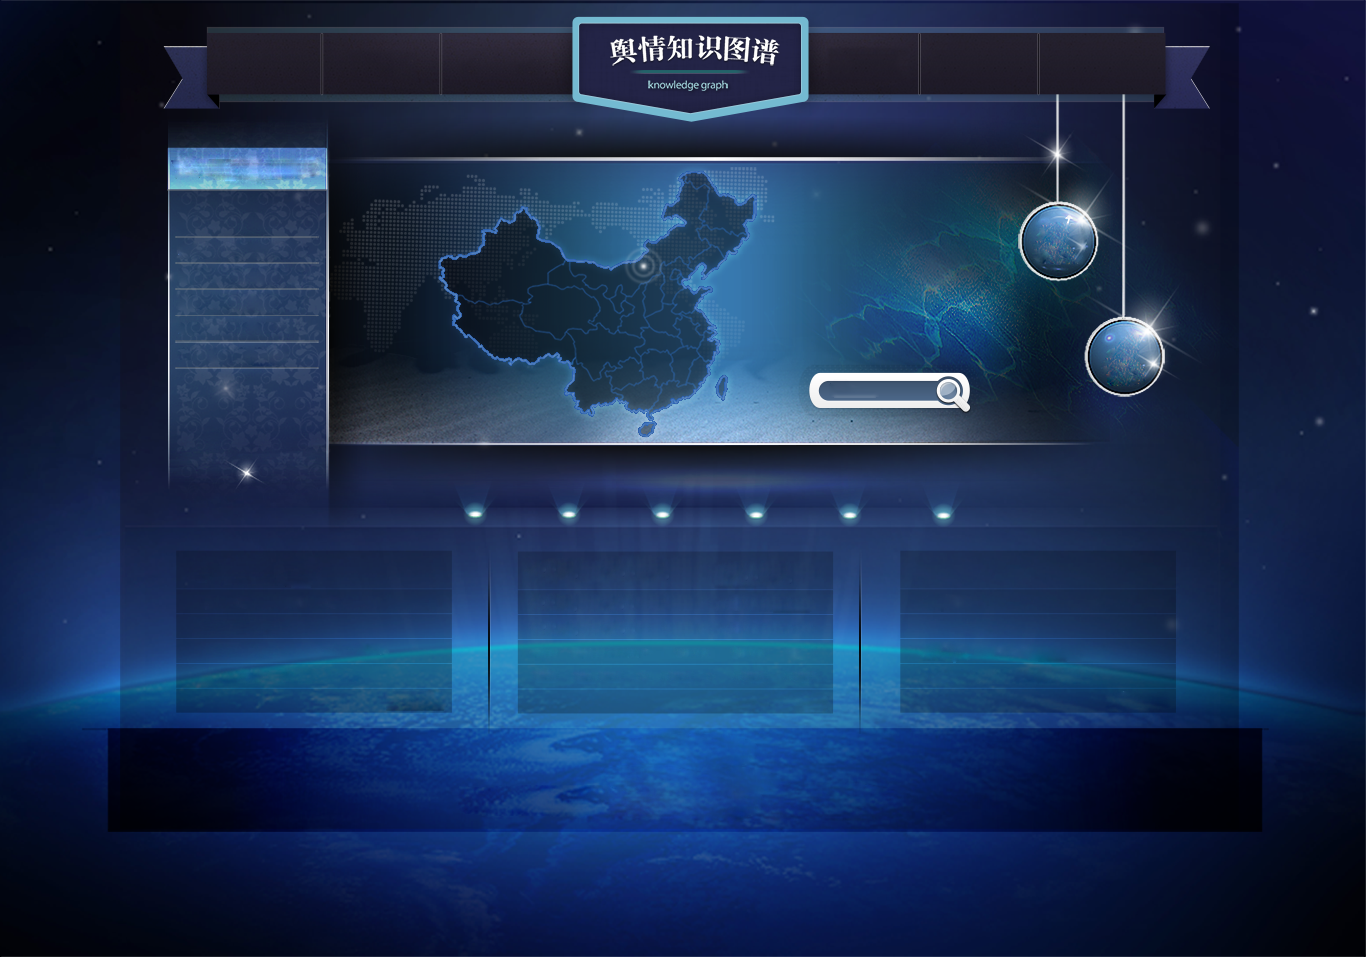
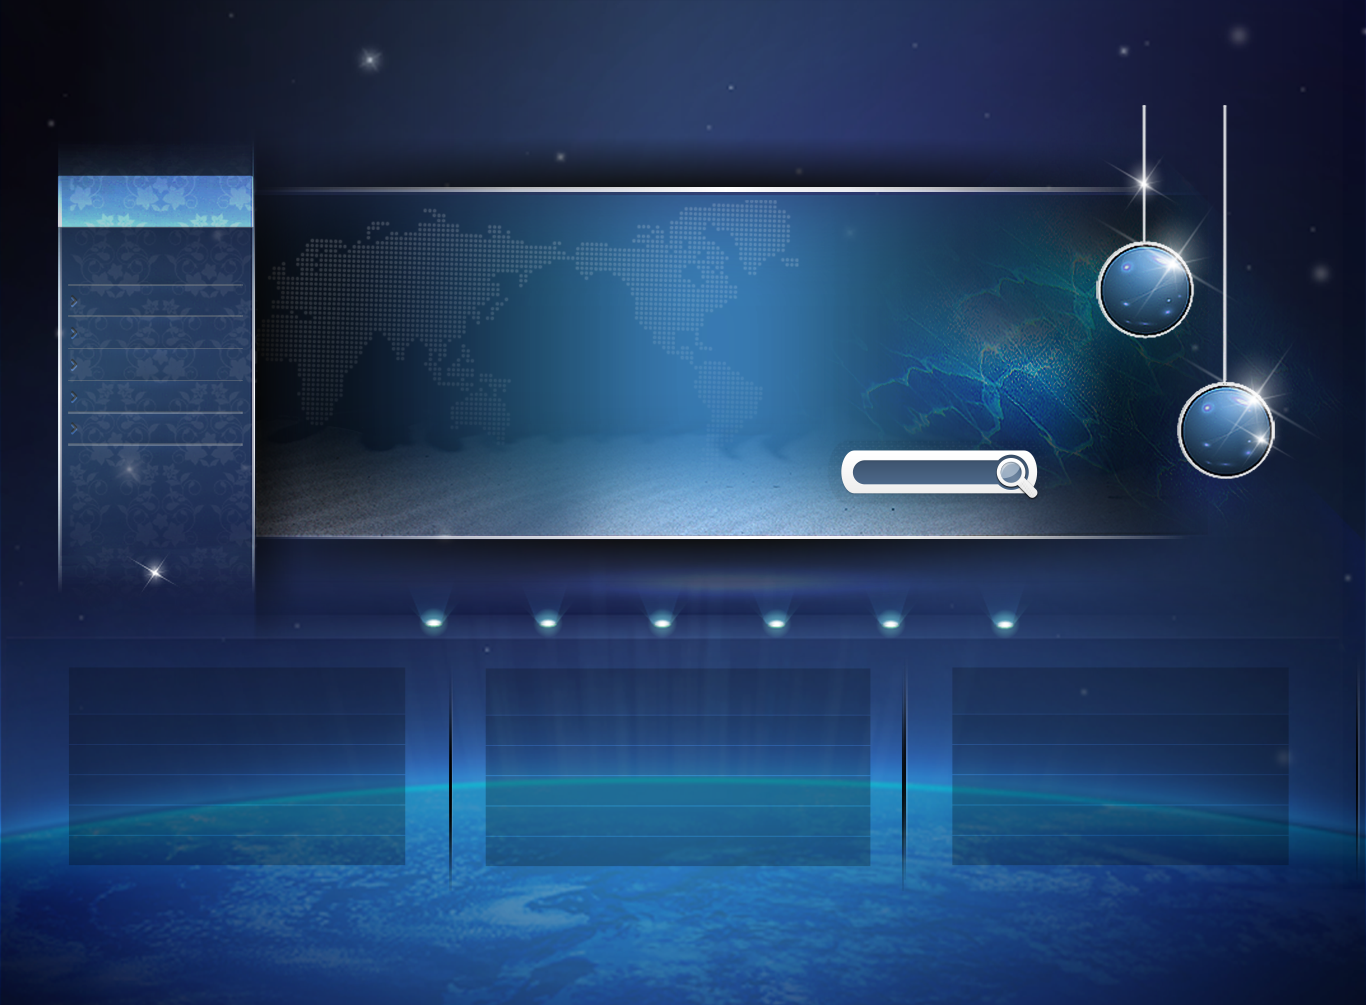
ymm

diff --git a/knowledge/templates/index/card_display.html b/knowledge/templates/index/card_display.html
@@ -1,0 +1,62 @@
+{% extends "public_nav.html" %}
+{% block title %}<title>知识图谱 - 卡片详情页</title>{% endblock %}
+{% block my_css %}
+<link rel="stylesheet" href="/static/css/card_display.css">
+<style>
+    .radio-inline {
+        font-weight: 900;
+    }
+</style>
+{% endblock %}
+
+
+{% block main %}
+<div id="all_cards">
+    <div class="left"> < </div>
+    <div class="cards_content">
+        <div class="choose" style="padding: 5px 0 5px 100px;">
+            <label class="radio-inline">
+                <input type="radio" name="options" id="important" value=""> 重要度
+            </label>
+            <label class="radio-inline">
+                <input type="radio" name="options" id="activity" value=""> 活跃度
+            </label>
+            <label class="radio-inline">
+                <input type="radio" name="options" id="sensitivity" value=""> 敏感度
+            </label>
+        </div>
+        <div id="card_set">
+            <div id="gov_card_details" style="padding:30px 0 0 30px">
+                <div class="details-1">
+                    <div class="details-1-left" style="width:60%;color: white;display: inline-block;text-align: center;">
+                        <h3 title="中华人民共和国" style="width: 110px;margin:0 auto;white-space: nowrap;overflow: hidden;text-overflow:ellipsis;">中华人民共和国</h3>
+                        <p style="margin-top:12px;font-size: 8px">发生时间：<b class="time">2016-9-12</b></p>
+                    </div>
+                    <div class="details-1-right" style="float: right;margin-top: -10px;margin-right: 20px;border: 2px solid #44b3e6">
+                        <img src="/static/images/unknown.png">
+                    </div>
+                    <div class="details-1-bottom" style="text-align: center;color: white;font-size: 8px;margin-top: 10px">
+                        <img src="/static/images/gov_wei.png">&nbsp;<span class="position">山东</span>
+                        <img src="/static/images/gov_people.png">&nbsp;<span class="join">1723923</span>
+                        <img src="/static/images/gov_circle.png" class="heart">
+                    </div>
+                </div>
+                <div class="details-2" style="margin: 31px 0 0 25px">
+                    <span style="font-weight: 800;font-size: 10px">业务标签：</span>
+                    <span class="tag" style="display:inline-block;padding: 2px 5px;background-color:#3a89ad;border-radius: 6px;font-size: 6px;">大学生</span>
+                </div>
+            </div>
+        </div>
+    </div>
+    <div class="right"> > </div>
+</div>
+
+{% endblock %}
+
+{% block my_js %}
+<script src="/static/js/card_display-1.js"></script>
+<script>
+//    $('body').height($(window).height());
+
+</script>
+{% endblock %}

diff --git a/knowledge/templates/index/event.html b/knowledge/templates/index/event.html
@@ -1,0 +1,39 @@
+{% extends "public_nav.html" %}
+{% block title %}<title>知识图谱 - 事件详情页</title>{% endblock %}
+{% block my_css %}
+<link rel="stylesheet" href="/static/css/event.css">
+<style>
+
+</style>
+{% endblock %}
+
+<!-------主要内容------->
+{% block main %}
+<div id="event_content">
+    <div id="content_left">
+        <div class="basic">
+            <h3 class="basic-1" style="width: 140px;height: 280px;line-height: 280px;
+            color: white;font-size: 22px;font-weight: 900;display: inline-block">基本信息</h3>
+            <div class="basic-2">
+                <div class="basic-2-name">
+                    <h3 class="event_name">徐玉玉事件</h3>
+                    <span class="edit" style="display: inline-block">编&nbsp;&nbsp;辑</span>
+                </div>
+
+            </div>
+        </div>
+    </div>
+    <div id="content_right">
+
+    </div>
+</div>
+
+{% endblock %}
+
+{% block my_js %}
+<script src="/static/js/event-1.js"></script>
+<script>
+
+
+</script>
+{% endblock %}

diff --git a/knowledge/static/css/card_display.css b/knowledge/static/css/card_display.css
@@ -1,0 +1,40 @@
+/*内容样式*/
+body {
+    width: 100%;
+    min-width: 1349px;
+    min-height: 1408px;
+    background: url("/static/images/cards.jpg") no-repeat;
+    background-size: 100% 100%;
+}
+#all_cards {
+    width: 100%;
+}
+#all_cards .cards_content {
+    display: inline-block;
+    width: 1174px;
+}
+#all_cards .left,#all_cards .right {
+    width: 80px;
+    height: 80px;
+    line-height: 80px;
+    text-align: center;
+    color: white;
+    font-size: 16px;
+    background: #bcbdbf;
+    cursor: pointer;
+    display: inline-block;
+    margin-top: 0px;
+}
+#all_cards .left:hover,#all_cards .right:hover {
+    background: #1dd2af;
+}
+#all_cards .cards_content #card_set {
+    width: 100%;
+    padding: 30px 100px;
+}
+#all_cards .cards_content #card_set #gov_card_details {
+    width: 300px;
+    height: 172px;
+    background: url("/static/images/government_card.jpg") no-repeat;
+}
+

diff --git a/knowledge/static/css/knowledge_home.css b/knowledge/static/css/knowledge_home.css
@@ -6,37 +6,17 @@ body {
     min-width: 1349px;
     min-height: 1005px;
     /*max-height: 1005px;*/
-    background: url("/static/images/body-1.jpg") no-repeat;
+    background: url("/static/images/body.png") no-repeat;
 }
 #container {
     width: 100%;
     height: 800px;
     padding: 20px 20px 50px 20px;
 }
-#container #nav {
-    width: 90%;
-    height: 80px;
-    padding-left: 20px;
-    margin: 10px auto 0;
-}
-#container #nav .nav_list li {
-    float: left;
-}
-#container #nav .nav_list li a {
-    font-family: '微软雅黑';
-    display: block;
-    width: 140px;
-    height: 80px;
-    line-height: 80px;
-    text-align: center;
-    font-size: 16px;
-    color: white;
-    font-weight: 900;
-}
 #container #statistics {
     width: 90%;
     height: 368px;
-    margin: 75px auto 0;
+    margin: 20px auto 0;
 }
 #container #statistics .statis-1 {
     width: 155px;

diff --git a/knowledge/templates/index/knowledge_home.html b/knowledge/templates/index/knowledge_home.html
@@ -18,16 +18,6 @@
 {% endblock %}
 {% block main %}
 <div id="container">
-    <div id="nav">
-        <ul class="nav_list">
-            <li><a href="###">专题探索</a></li>
-            <li><a href="###">群体探索</a></li>
-            <li><a href="###" style="margin-left: 20px">突发探索</a></li>
-            <li><a href="###" style="margin-left: 290px">图谱探索</a></li>
-            <li><a href="###">图谱管理</a></li>
-            <li><a href="###">我的图谱</a></li>
-        </ul>
-    </div>
     <div id="statistics">
         <div class="statis-1">
             <div class="s1-top"></div>

diff --git a/knowledge/static/css/public_nav.css b/knowledge/static/css/public_nav.css
@@ -20,3 +20,25 @@ a,a:link,a:hover,a:visited,a:active {
     text-decoration: none;
 }
 /*内容样式*/
+#nav {
+    width: 100%;
+    height: 135px;
+    padding:15px 0 0 100px;
+    margin: 10px auto 0;
+    background: url("/static/images/nav.png") no-repeat;
+    background-size: 100% 100%;
+}
+#nav .nav_list li {
+    float: left;
+}
+#nav .nav_list li a {
+    font-family: '微软雅黑';
+    display: block;
+    width: 140px;
+    height: 80px;
+    line-height: 80px;
+    text-align: center;
+    font-size: 16px;
+    color: white;
+    font-weight: 900;
+}

diff --git a/knowledge/static/css/event.css b/knowledge/static/css/event.css
@@ -1,0 +1,27 @@
+/*内容样式*/
+body {
+    width: 100%;
+    min-width: 1349px;
+    min-height: 2470px;
+    background: url("/static/images/event_body.png") no-repeat;
+    background-size: 100% 100%;
+}
+#event_content {
+    width: 100%;
+    padding: 20px 50px;
+}
+#event_content #content_left {
+    width: 72%;
+
+}
+#event_content #content_left .basic {
+    width: 100%;
+    height: 280px;
+    margin-top: 40px;
+    padding-left: 55px;
+}
+#event_content #content_left .basic .basic-2 {
+    float: ;
+    height: 280px;
+    position: relative;
+}

diff --git a/knowledge/templates/public_nav.html b/knowledge/templates/public_nav.html
@@ -29,7 +29,16 @@
 <body>
 <!-- 导航开始 -->
 {% block header %}
-
+<div id="nav">
+    <ul class="nav_list">
+        <li><a href="###">专题探索</a></li>
+        <li><a href="###">群体探索</a></li>
+        <li><a href="###" style="margin-left: 20px">突发探索</a></li>
+        <li><a href="###" style="margin-left: 290px">图谱探索</a></li>
+        <li><a href="###">图谱管理</a></li>
+        <li><a href="###">我的图谱</a></li>
+    </ul>
+</div>
 
 {% endblock %}
 <!-- 导航结束 -->

diff --git a/knowledge/templates/index/organization.html b/knowledge/templates/index/organization.html
@@ -1,0 +1,22 @@
+{% extends "public_nav.html" %}
+{% block title %}<title>知识图谱 - 机构详情页</title>{% endblock %}
+{% block my_css %}
+<link rel="stylesheet" href="/static/css/organization.css">
+<style>
+
+</style>
+{% endblock %}
+
+
+{% block main %}
+
+
+{% endblock %}
+
+{% block my_js %}
+<script src="/static/js/organization-1.js"></script>
+<script>
+
+
+</script>
+{% endblock %}

diff --git a/knowledge/templates/index/person.html b/knowledge/templates/index/person.html
@@ -1,0 +1,22 @@
+{% extends "public_nav.html" %}
+{% block title %}<title>知识图谱 - 事件详情页</title>{% endblock %}
+{% block my_css %}
+<link rel="stylesheet" href="/static/css/perosn.css">
+<style>
+
+</style>
+{% endblock %}
+
+
+{% block main %}
+
+
+{% endblock %}
+
+{% block my_js %}
+<script src="/static/js/perosn-1.js"></script>
+<script>
+
+
+</script>
+{% endblock %}

diff --git a/knowledge/static/js/knowledgeHome-1.js b/knowledge/static/js/knowledgeHome-1.js
@@ -20,8 +20,6 @@ function randomData() {
 option = {
     tooltip: {
         trigger: 'item',
-        formatter:function (v) {
-        }
     },
     visualMap: {
         min: 0,

diff --git a/knowledge/index/views.py b/knowledge/index/views.py
@@ -45,3 +45,9 @@ def get_event():#事件属性页面
 def get_organization():#机构属性页面
 
     return render_template('index/organization.html')
+
+@mod.route('/cards/')
+@login_required
+def get_card():#卡片罗列页面
+
+    return render_template('index/card_display.html')
